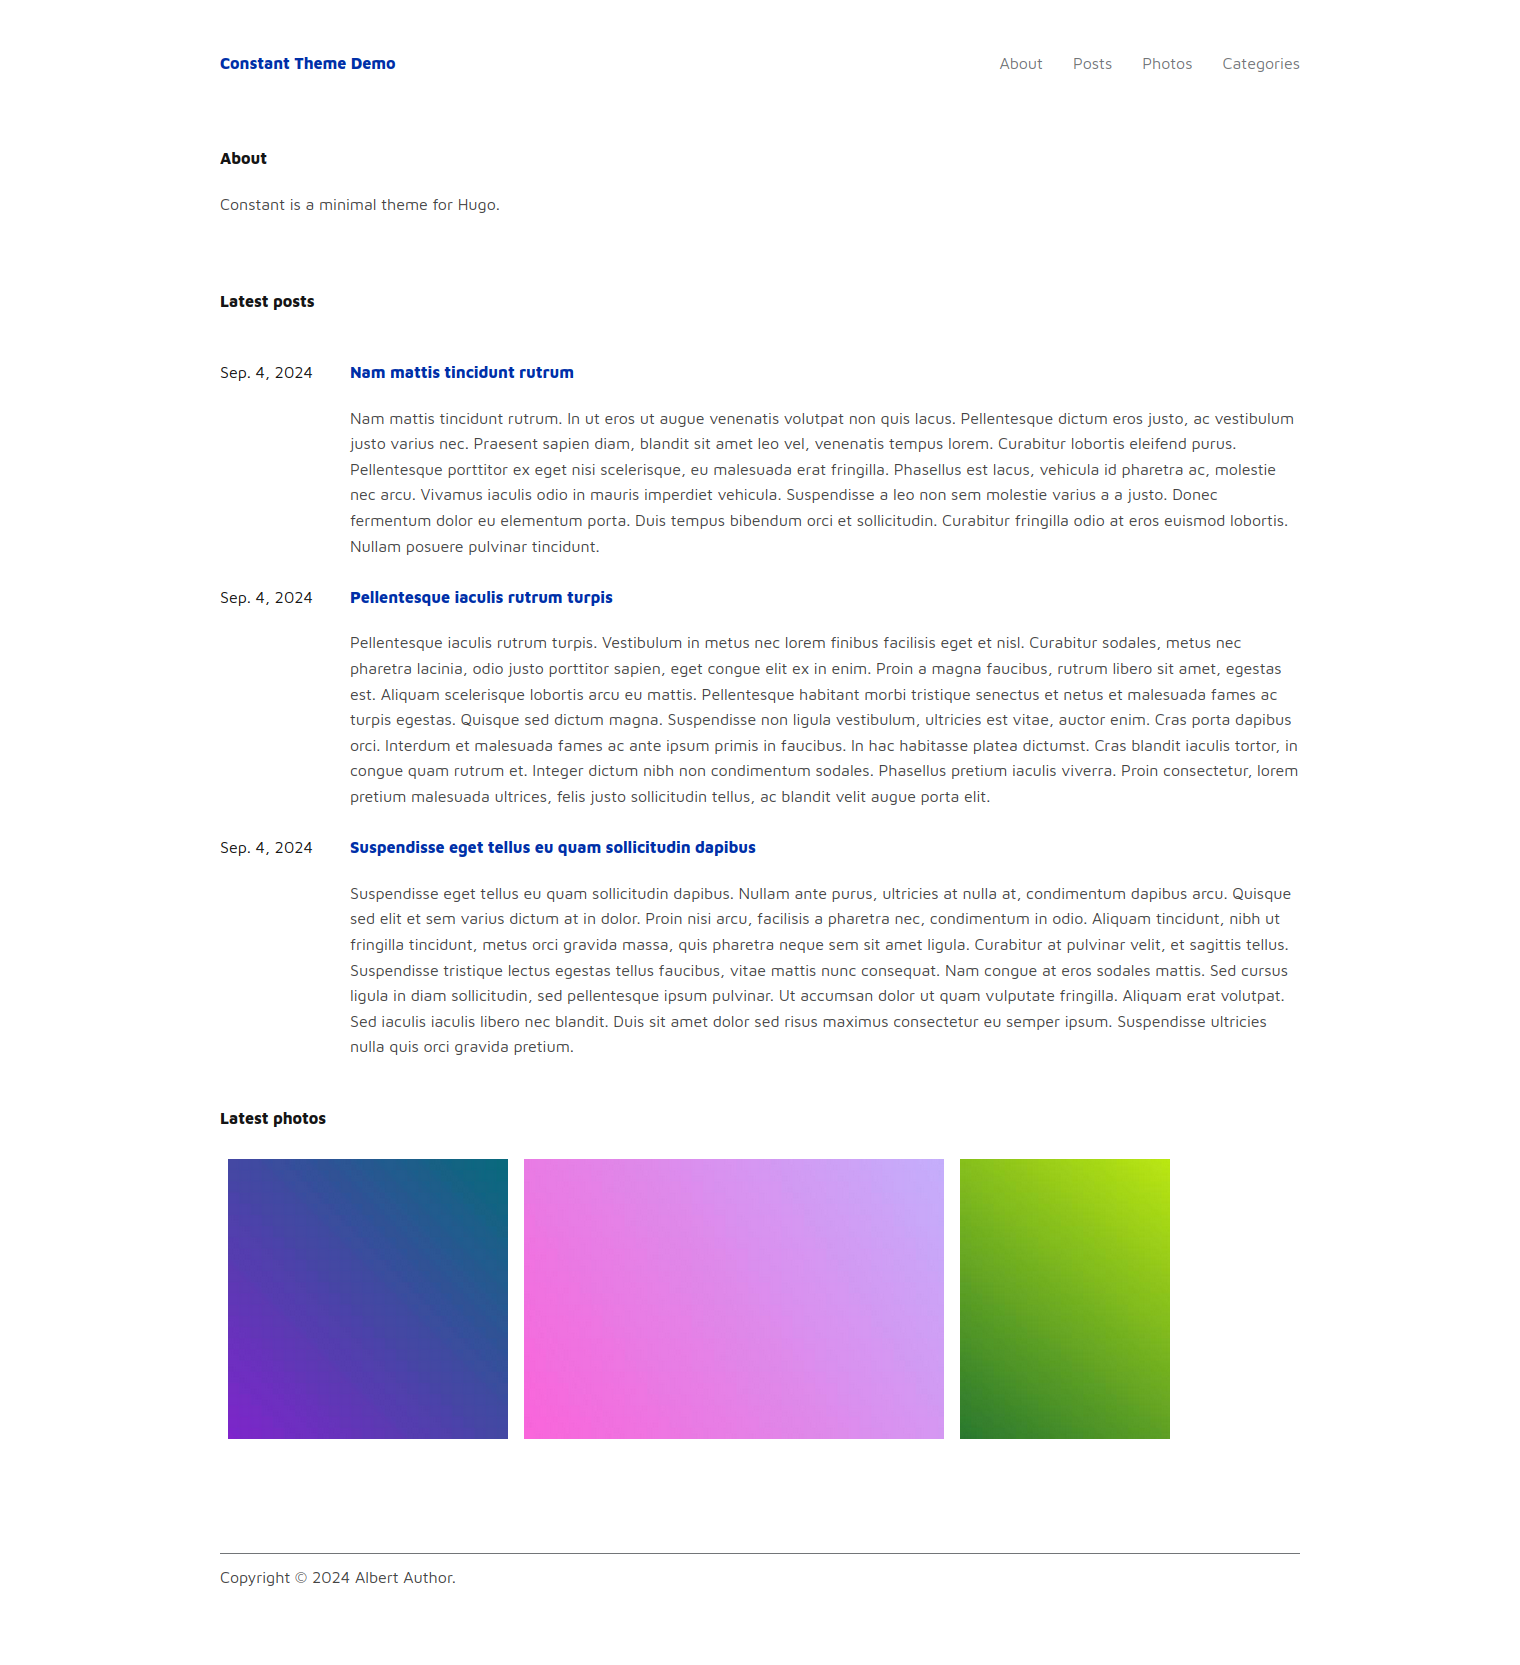
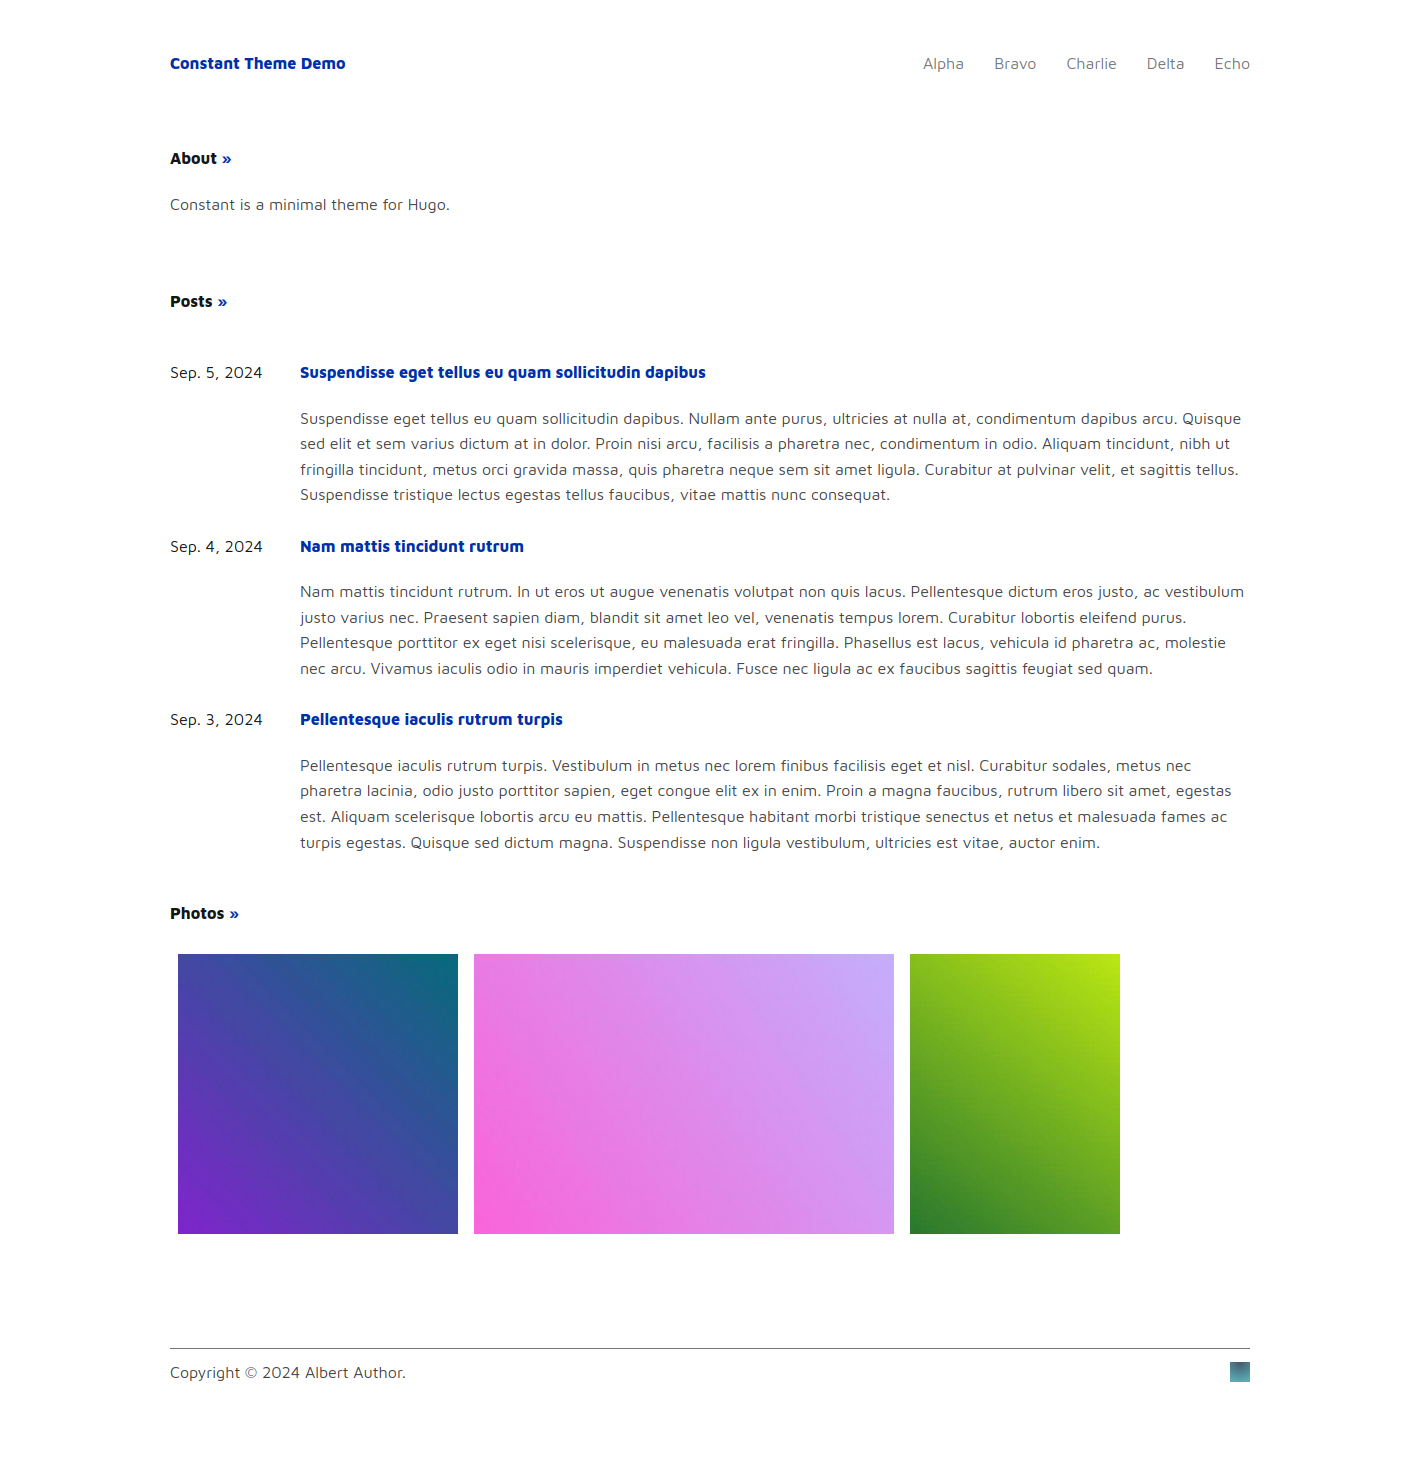
feat: updated UI

diff --git a/layouts/gallery/list.html b/layouts/gallery/list.html
@@ -1,17 +1,5 @@
 {{ define "main" }}
 <h1>{{ .Page.Title }}</h1>
 {{ .Content }}
-<div class="image-grid">
-    {{ range sort .Data.Pages "Date" "desc" }}
-        {{ if and (isset .Params "image") .Params.image }}
-            <a href="{{ .Permalink }}" title="{{ .Title }}">
-            {{ $image := .Page.Resources.GetMatch .Params.image }}
-            {{ with $image }}
-                {{ $thumb := .Resize "x400" }}
-                <img src="{{ $thumb.RelPermalink }}" alt="{{ .Title }}" class="img-responsive">
-            {{end}}
-            </a>
-        {{ end }}
-    {{ end }}
-</div>
+{{- partial "img_grid.html" . -}}
 {{ end }}

diff --git a/layouts/partials/img_grid.html b/layouts/partials/img_grid.html
@@ -1,0 +1,13 @@
+<div class="image-grid">
+    {{ range sort .Data.Pages "Date" "desc" }}
+        {{ if and (isset .Params "image") .Params.image }}
+            <a href="{{ .Permalink }}" title="{{ .Title }}">
+            {{ $image := .Page.Resources.GetMatch .Params.image }}
+            {{ with $image }}
+                {{ $thumb := .Resize "x400" }}
+                <img src="{{ $thumb.RelPermalink }}" alt="{{ .Title }}" class="img-responsive">
+            {{end}}
+            </a>
+        {{ end }}
+    {{ end }}
+</div>

diff --git a/layouts/index.html b/layouts/index.html
@@ -1,13 +1,13 @@
 {{ define "main" }}
 
-<h1>About</h1>
+<h1>About <a href="about/">»</a></h1>
 
 <p>
 Constant is a minimal theme for Hugo.
 </p>
 <br/>
 
-<h1>Latest posts</h1>
+<h1>Posts <a href="posts/">»</a></h1>
 
 <div class="posts-list">
 {{ with .Site.GetPage "/posts" }}
@@ -23,7 +23,7 @@ Constant is a minimal theme for Hugo.
 {{ end }}
 </div>
 
-<h1>Latest photos</h1>
+<h1>Photos <a href="photos/">»</a></h1>
 
 <div class="image-grid">
 {{ with .Site.GetPage "/photos" }}

diff --git a/layouts/_default/list.html b/layouts/_default/list.html
@@ -5,7 +5,7 @@
 
 <div class="posts-list">
 {{ range sort .Data.Pages "Date" "desc" }}
-    {{ if not .Params.private }}
+    {{ if and (not .Params.private) (ne .Type "gallery") }}
         <div class="post">
             <p>
                 <div class="date">{{ .PublishDate.Format "Jan. 2, 2006" }}</div>    
@@ -16,5 +16,6 @@
     {{ end }}
 {{ end }}
 </div>
+{{- partial "img_grid.html" . -}}
 
 {{ end }}

diff --git a/exampleSite/content/posts/Nam-mattis/index.md b/exampleSite/content/posts/Nam-mattis/index.md
@@ -1,15 +1,15 @@
 +++
-title = "Suspendisse eget tellus eu quam sollicitudin dapibus"
+title = "Nam mattis tincidunt rutrum"
 date = "2024-09-04"
-categories = ["Varius"]
+categories = ["Charlie"]
 +++
 
-Suspendisse eget tellus eu quam sollicitudin dapibus. Nullam ante purus, ultricies at nulla at, condimentum dapibus arcu. Quisque sed elit et sem varius dictum at in dolor. Proin nisi arcu, facilisis a pharetra nec, condimentum in odio. Aliquam tincidunt, nibh ut fringilla tincidunt, metus orci gravida massa, quis pharetra neque sem sit amet ligula. Curabitur at pulvinar velit, et sagittis tellus. Suspendisse tristique lectus egestas tellus faucibus, vitae mattis nunc consequat. Nam congue at eros sodales mattis. Sed cursus ligula in diam sollicitudin, sed pellentesque ipsum pulvinar. Ut accumsan dolor ut quam vulputate fringilla. Aliquam erat volutpat. Sed iaculis iaculis libero nec blandit. Duis sit amet dolor sed risus maximus consectetur eu semper ipsum. Suspendisse ultricies nulla quis orci gravida pretium.
+Nam mattis tincidunt rutrum. In ut eros ut augue venenatis volutpat non quis lacus. Pellentesque dictum eros justo, ac vestibulum justo varius nec. Praesent sapien diam, blandit sit amet leo vel, venenatis tempus lorem. Curabitur lobortis eleifend purus. Pellentesque porttitor ex eget nisi scelerisque, eu malesuada erat fringilla. Phasellus est lacus, vehicula id pharetra ac, molestie nec arcu. Vivamus iaculis odio in mauris imperdiet vehicula. Fusce nec ligula ac ex faucibus sagittis feugiat sed quam.
 
-Donec dapibus mauris quis feugiat sodales. Sed in nulla consequat, rhoncus tellus non, facilisis ligula. Integer bibendum lacinia eros ac varius. Donec at faucibus est. Nam faucibus tristique ipsum nec mollis. In in ultrices tellus. Integer sagittis eros feugiat feugiat feugiat.
+Interdum et malesuada fames ac ante ipsum primis in faucibus. Ut at dolor sagittis, varius elit eget, hendrerit sem. Donec magna eros, sodales a scelerisque quis, rutrum vel tortor. Mauris tincidunt leo ante, sed lobortis ipsum aliquam eget. Vivamus gravida, augue et imperdiet pretium, nulla tortor egestas lorem, maximus tincidunt mi neque et odio. Integer eu pulvinar est.
 
-Praesent sagittis nunc eros, sit amet rhoncus orci accumsan eget. Fusce lobortis, lectus quis dapibus laoreet, augue ipsum gravida lorem, sit amet pulvinar odio ante non lacus. Integer posuere massa purus, non accumsan quam luctus vitae. Praesent purus nulla, gravida id consectetur sit amet, fermentum vel risus. Suspendisse eget elit sed ante ultricies congue. Vestibulum pulvinar bibendum tellus, a facilisis elit mattis eu. In lobortis volutpat ex id efficitur.
+Ut scelerisque libero et sapien ultricies consectetur. Cras a magna ut nunc viverra suscipit. Donec ultricies turpis mollis nunc aliquam, mollis tristique eros mollis. Ut ac metus at nunc feugiat eleifend eu sodales ante. Class aptent taciti sociosqu ad litora torquent per conubia nostra, per inceptos himenaeos. Nulla rhoncus felis lectus, a volutpat nisi tempus vitae. Sed ornare pretium ipsum. Fusce interdum, neque nec laoreet luctus, neque erat accumsan urna, in suscipit est velit vitae nisi. Aliquam erat volutpat. Praesent eleifend mauris enim, volutpat tincidunt lorem commodo sed. Donec luctus iaculis mollis. Proin eleifend dictum purus et congue.
 
-Nullam risus justo, pellentesque eu faucibus nec, molestie et ligula. Nunc sapien metus, pharetra consequat diam ac, gravida aliquet odio. Donec non est eu diam blandit lobortis. Proin arcu libero, ullamcorper at ornare vitae, lacinia vel velit. Nam et porta mi, a fermentum orci. Curabitur sed imperdiet turpis. Aenean convallis sapien in neque tincidunt, sed eleifend diam aliquam.
+Morbi commodo imperdiet lectus vehicula aliquam. Vestibulum enim orci, consectetur ac elit nec, maximus imperdiet mauris. Etiam ut varius nunc, sit amet posuere dolor. Duis lobortis odio quis metus pulvinar malesuada. Nam vel viverra diam. Nunc facilisis odio vitae lorem ullamcorper pellentesque. Proin finibus volutpat lectus, at interdum ligula euismod id. Nunc eget velit vitae quam dapibus suscipit. Duis rhoncus facilisis lorem, aliquam tempus felis scelerisque ac. Quisque nec porta erat.
 
-Praesent tincidunt cursus dapibus. Suspendisse quis mauris eget leo condimentum vestibulum ullamcorper vel dui. Morbi mattis venenatis est vitae dignissim. Interdum et malesuada fames ac ante ipsum primis in faucibus. In quis nisl nunc. Pellentesque fringilla nisl id erat suscipit, a laoreet enim condimentum. Phasellus ac nulla in quam interdum dapibus. Proin id venenatis risus. Cras eu volutpat velit, sit amet ullamcorper lacus. Etiam pharetra cursus semper. Morbi fringilla tempus aliquam.
+Curabitur sed tincidunt velit, ut bibendum leo. Praesent et posuere odio. Duis nibh neque, luctus non varius non, mollis vitae urna. Proin nisl mi, volutpat id purus sit amet, venenatis tempor diam. Nam aliquet porta risus quis consectetur. Quisque ut odio eu erat consequat aliquam. Sed iaculis lorem facilisis aliquet consectetur.

diff --git a/exampleSite/content/posts/Suspendisse-eget/index.md b/exampleSite/content/posts/Suspendisse-eget/index.md
@@ -1,15 +1,15 @@
 +++
-title = "Nam mattis tincidunt rutrum"
-date = "2024-09-04"
-categories = ["Varius"]
+title = "Suspendisse eget tellus eu quam sollicitudin dapibus"
+date = "2024-09-05"
+categories = ["Alpha"]
 +++
 
-Nam mattis tincidunt rutrum. In ut eros ut augue venenatis volutpat non quis lacus. Pellentesque dictum eros justo, ac vestibulum justo varius nec. Praesent sapien diam, blandit sit amet leo vel, venenatis tempus lorem. Curabitur lobortis eleifend purus. Pellentesque porttitor ex eget nisi scelerisque, eu malesuada erat fringilla. Phasellus est lacus, vehicula id pharetra ac, molestie nec arcu. Vivamus iaculis odio in mauris imperdiet vehicula. Suspendisse a leo non sem molestie varius a a justo. Donec fermentum dolor eu elementum porta. Duis tempus bibendum orci et sollicitudin. Curabitur fringilla odio at eros euismod lobortis. Nullam posuere pulvinar tincidunt.
+Suspendisse eget tellus eu quam sollicitudin dapibus. Nullam ante purus, ultricies at nulla at, condimentum dapibus arcu. Quisque sed elit et sem varius dictum at in dolor. Proin nisi arcu, facilisis a pharetra nec, condimentum in odio. Aliquam tincidunt, nibh ut fringilla tincidunt, metus orci gravida massa, quis pharetra neque sem sit amet ligula. Curabitur at pulvinar velit, et sagittis tellus. Suspendisse tristique lectus egestas tellus faucibus, vitae mattis nunc consequat.
 
-Fusce nec ligula ac ex faucibus sagittis feugiat sed quam. Interdum et malesuada fames ac ante ipsum primis in faucibus. Ut at dolor sagittis, varius elit eget, hendrerit sem. Donec magna eros, sodales a scelerisque quis, rutrum vel tortor. Mauris tincidunt leo ante, sed lobortis ipsum aliquam eget. Vivamus gravida, augue et imperdiet pretium, nulla tortor egestas lorem, maximus tincidunt mi neque et odio. Integer eu pulvinar est.
+Donec dapibus mauris quis feugiat sodales. Sed in nulla consequat, rhoncus tellus non, facilisis ligula. Integer bibendum lacinia eros ac varius. Donec at faucibus est. Nam faucibus tristique ipsum nec mollis. In in ultrices tellus. Integer sagittis eros feugiat feugiat feugiat.
 
-Ut scelerisque libero et sapien ultricies consectetur. Cras a magna ut nunc viverra suscipit. Donec ultricies turpis mollis nunc aliquam, mollis tristique eros mollis. Ut ac metus at nunc feugiat eleifend eu sodales ante. Class aptent taciti sociosqu ad litora torquent per conubia nostra, per inceptos himenaeos. Nulla rhoncus felis lectus, a volutpat nisi tempus vitae. Sed ornare pretium ipsum. Fusce interdum, neque nec laoreet luctus, neque erat accumsan urna, in suscipit est velit vitae nisi. Aliquam erat volutpat. Praesent eleifend mauris enim, volutpat tincidunt lorem commodo sed. Donec luctus iaculis mollis. Proin eleifend dictum purus et congue.
+Praesent sagittis nunc eros, sit amet rhoncus orci accumsan eget. Fusce lobortis, lectus quis dapibus laoreet, augue ipsum gravida lorem, sit amet pulvinar odio ante non lacus. Integer posuere massa purus, non accumsan quam luctus vitae. Praesent purus nulla, gravida id consectetur sit amet, fermentum vel risus. Suspendisse eget elit sed ante ultricies congue. Vestibulum pulvinar bibendum tellus, a facilisis elit mattis eu. In lobortis volutpat ex id efficitur.
 
-Morbi commodo imperdiet lectus vehicula aliquam. Vestibulum enim orci, consectetur ac elit nec, maximus imperdiet mauris. Etiam ut varius nunc, sit amet posuere dolor. Duis lobortis odio quis metus pulvinar malesuada. Nam vel viverra diam. Nunc facilisis odio vitae lorem ullamcorper pellentesque. Proin finibus volutpat lectus, at interdum ligula euismod id. Nunc eget velit vitae quam dapibus suscipit. Duis rhoncus facilisis lorem, aliquam tempus felis scelerisque ac. Quisque nec porta erat.
+Nullam risus justo, pellentesque eu faucibus nec, molestie et ligula. Nunc sapien metus, pharetra consequat diam ac, gravida aliquet odio. Donec non est eu diam blandit lobortis. Proin arcu libero, ullamcorper at ornare vitae, lacinia vel velit. Nam et porta mi, a fermentum orci. Curabitur sed imperdiet turpis. Aenean convallis sapien in neque tincidunt, sed eleifend diam aliquam.
 
-Curabitur sed tincidunt velit, ut bibendum leo. Praesent et posuere odio. Duis nibh neque, luctus non varius non, mollis vitae urna. Proin nisl mi, volutpat id purus sit amet, venenatis tempor diam. Nam aliquet porta risus quis consectetur. Quisque ut odio eu erat consequat aliquam. Sed iaculis lorem facilisis aliquet consectetur.
+Praesent tincidunt cursus dapibus. Suspendisse quis mauris eget leo condimentum vestibulum ullamcorper vel dui. Morbi mattis venenatis est vitae dignissim. Interdum et malesuada fames ac ante ipsum primis in faucibus. In quis nisl nunc. Pellentesque fringilla nisl id erat suscipit, a laoreet enim condimentum. Phasellus ac nulla in quam interdum dapibus. Proin id venenatis risus. Cras eu volutpat velit, sit amet ullamcorper lacus. Etiam pharetra cursus semper. Morbi fringilla tempus aliquam.

diff --git a/exampleSite/content/posts/Pellentesque-iaculis/index.md b/exampleSite/content/posts/Pellentesque-iaculis/index.md
@@ -1,10 +1,10 @@
 +++
 title = "Pellentesque iaculis rutrum turpis"
-date = "2024-09-04"
-categories = ["Arcu"]
+date = "2024-09-03"
+categories = ["Bravo"]
 +++
 
-Pellentesque iaculis rutrum turpis. Vestibulum in metus nec lorem finibus facilisis eget et nisl. Curabitur sodales, metus nec pharetra lacinia, odio justo porttitor sapien, eget congue elit ex in enim. Proin a magna faucibus, rutrum libero sit amet, egestas est. Aliquam scelerisque lobortis arcu eu mattis. Pellentesque habitant morbi tristique senectus et netus et malesuada fames ac turpis egestas. Quisque sed dictum magna. Suspendisse non ligula vestibulum, ultricies est vitae, auctor enim. Cras porta dapibus orci. Interdum et malesuada fames ac ante ipsum primis in faucibus. In hac habitasse platea dictumst. Cras blandit iaculis tortor, in congue quam rutrum et. Integer dictum nibh non condimentum sodales. Phasellus pretium iaculis viverra. Proin consectetur, lorem pretium malesuada ultrices, felis justo sollicitudin tellus, ac blandit velit augue porta elit.
+Pellentesque iaculis rutrum turpis. Vestibulum in metus nec lorem finibus facilisis eget et nisl. Curabitur sodales, metus nec pharetra lacinia, odio justo porttitor sapien, eget congue elit ex in enim. Proin a magna faucibus, rutrum libero sit amet, egestas est. Aliquam scelerisque lobortis arcu eu mattis. Pellentesque habitant morbi tristique senectus et netus et malesuada fames ac turpis egestas. Quisque sed dictum magna. Suspendisse non ligula vestibulum, ultricies est vitae, auctor enim.
 
 Nam fringilla felis ut mi gravida, a ultricies nulla vehicula. Vivamus bibendum velit eget dictum ornare. Aliquam blandit urna vulputate enim semper tempor. Mauris ac massa ut nibh faucibus elementum. Mauris tristique finibus metus, sit amet convallis felis cursus ut. Vivamus semper facilisis augue at interdum. Praesent at laoreet quam.
 

diff --git a/exampleSite/content/photos/Aliquam/index.md b/exampleSite/content/photos/Aliquam/index.md
@@ -3,7 +3,7 @@ type = "gallery"
 title = "Aliquam"
 date = "2024-09-04"
 image = "Aliquam.jpeg"
-categories = ["Varius"]
+categories = ["Alpha"]
 +++
 
 Aliquam ac tortor nec nisl tempor rutrum. Nullam posuere aliquam mi, varius convallis lectus venenatis sed. Pellentesque metus massa, venenatis vel augue a, viverra luctus velit. Cras lectus quam, ornare at aliquet sit amet, rhoncus eu massa. Duis vitae tristique neque. Cras sodales, sem et suscipit lobortis, lorem mi facilisis purus, sit amet tempor lorem ligula a erat. Etiam a lacus mauris. Donec pharetra euismod tellus, sed sollicitudin arcu. Suspendisse vitae nulla in augue gravida rutrum ut rhoncus nunc. Nam sodales eget tortor a mollis. Vivamus egestas tincidunt turpis id vehicula. Ut ultricies ultricies velit. Donec vehicula id massa a pulvinar. Pellentesque ultricies elementum nulla, pretium ullamcorper nibh suscipit dictum. Donec nec odio mollis tellus ornare faucibus.

diff --git a/exampleSite/content/photos/Maecenas/index.md b/exampleSite/content/photos/Maecenas/index.md
@@ -3,7 +3,7 @@ type = "gallery"
 title = "Maecenas"
 date = "2024-09-04"
 image = "Maecenas.jpeg"
-categories = ["Varius"]
+categories = ["Charlie"]
 +++
 
 Maecenas congue dictum purus, quis aliquam arcu. Donec vestibulum quis arcu in euismod. Sed bibendum justo est, eget luctus est bibendum id. Nunc vehicula felis ante, nec ullamcorper sapien scelerisque ac. Integer varius massa vitae nisl vestibulum, cursus porta erat ultrices. Phasellus nunc ante, sagittis at lacinia sit amet, vehicula quis nisi. Fusce pharetra nunc a risus ornare, vel convallis velit lacinia. Mauris rutrum, erat ut mattis molestie, nulla lectus mattis augue, in euismod nulla nulla nec ligula. Nunc aliquam mi eget magna volutpat ornare. Aenean lorem mauris, consequat in euismod eu, accumsan sed neque. In porta purus a vulputate semper.

diff --git a/exampleSite/content/photos/Donec/index.md b/exampleSite/content/photos/Donec/index.md
@@ -3,7 +3,7 @@ type = "gallery"
 title = "Donec"
 date = "2024-09-04"
 image = "Donec.jpeg"
-categories = ["Varius"]
+categories = ["Bravo"]
 +++
 
 Donec id nulla id nisl sagittis convallis. Cras facilisis, dui sit amet faucibus porta, diam tortor convallis ex, et maximus erat dolor id nulla. Curabitur ut tristique tellus. Sed at ligula sit amet neque feugiat condimentum. Nam vitae turpis non augue gravida auctor dapibus consectetur leo. Proin non lacus et diam pulvinar egestas in ut tellus. Quisque orci purus, aliquet ac venenatis molestie, viverra ac diam. Nulla ut condimentum ex, eget iaculis augue. Morbi nec massa diam. Ut risus ex, sagittis quis sodales ut, varius at quam. Morbi sollicitudin vitae est nec laoreet. Quisque a est tincidunt, lobortis eros sit amet, sagittis felis.

diff --git a/exampleSite/content/photos/Sed/index.md b/exampleSite/content/photos/Sed/index.md
@@ -3,7 +3,7 @@ type = "gallery"
 title = "Sed"
 date = "2024-09-04"
 image = "Sed.jpeg"
-categories = ["Arcu"]
+categories = ["Alpha"]
 +++
 
 Sed rutrum, risus pellentesque auctor dignissim, nisl dui vestibulum dui, vel facilisis neque ex sit amet odio. Aenean sed consequat diam. Duis in tincidunt massa, eu mollis elit. Integer ac tincidunt lorem. Donec vehicula sapien et auctor placerat. Aenean tempor accumsan eros. Nullam vitae enim in neque semper mattis. Maecenas accumsan purus non volutpat aliquet. Phasellus sit amet mi cursus, maximus velit quis, finibus metus. Curabitur eget semper tellus. Curabitur vulputate congue ante, non molestie massa efficitur porta. Cras ullamcorper sem non lectus hendrerit dignissim.

diff --git a/exampleSite/content/photos/Nam/index.md b/exampleSite/content/photos/Nam/index.md
@@ -3,7 +3,7 @@ type = "gallery"
 title = "Nam"
 date = "2024-09-04"
 image = "Nam.jpeg"
-categories = ["Arcu"]
+categories = ["Delta"]
 +++
 
 Nam et mollis ipsum. Morbi aliquam magna sit amet urna egestas ornare. Vivamus ex nisi, efficitur id tincidunt ac, cursus ut neque. Sed quam sem, dignissim sit amet varius eu, luctus ut erat. Sed eget nibh eget tellus eleifend cursus at in augue. Nam eleifend mi nisl, eu faucibus est sagittis quis. Nullam vulputate, sem nec tincidunt ultrices, ex lorem rhoncus lectus, id rhoncus purus lectus vel ligula. Maecenas maximus ultricies lectus, eget aliquam eros. Curabitur non posuere enim, et placerat neque. Vestibulum sit amet luctus tortor, at lacinia ante.
